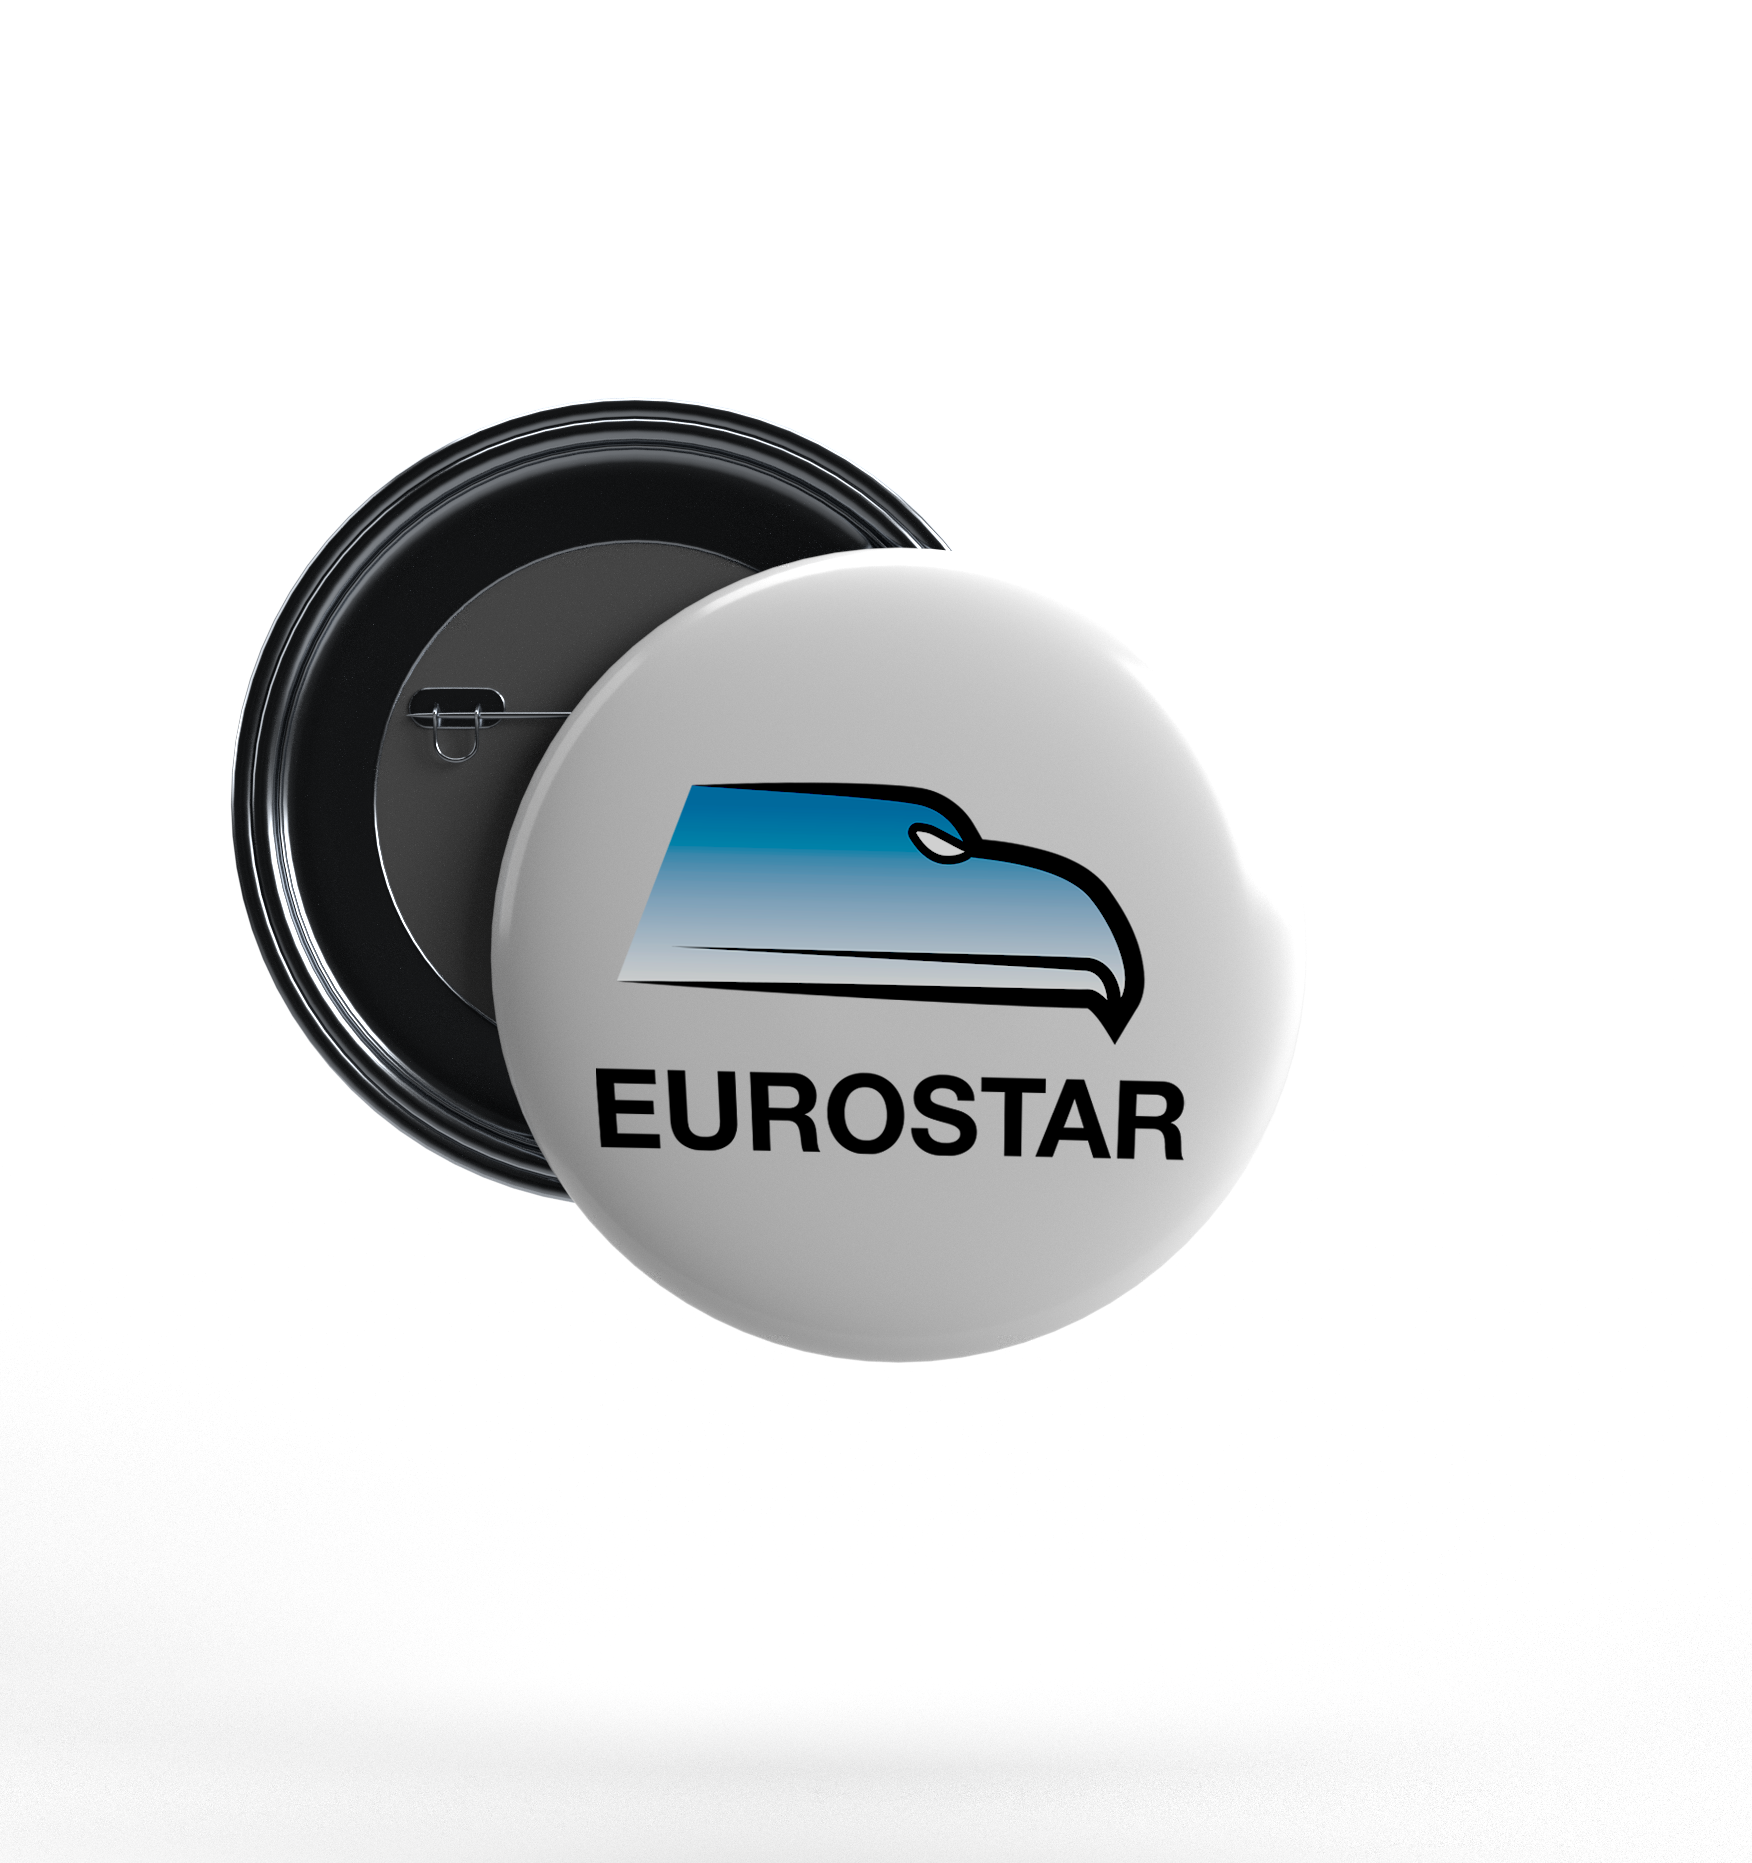
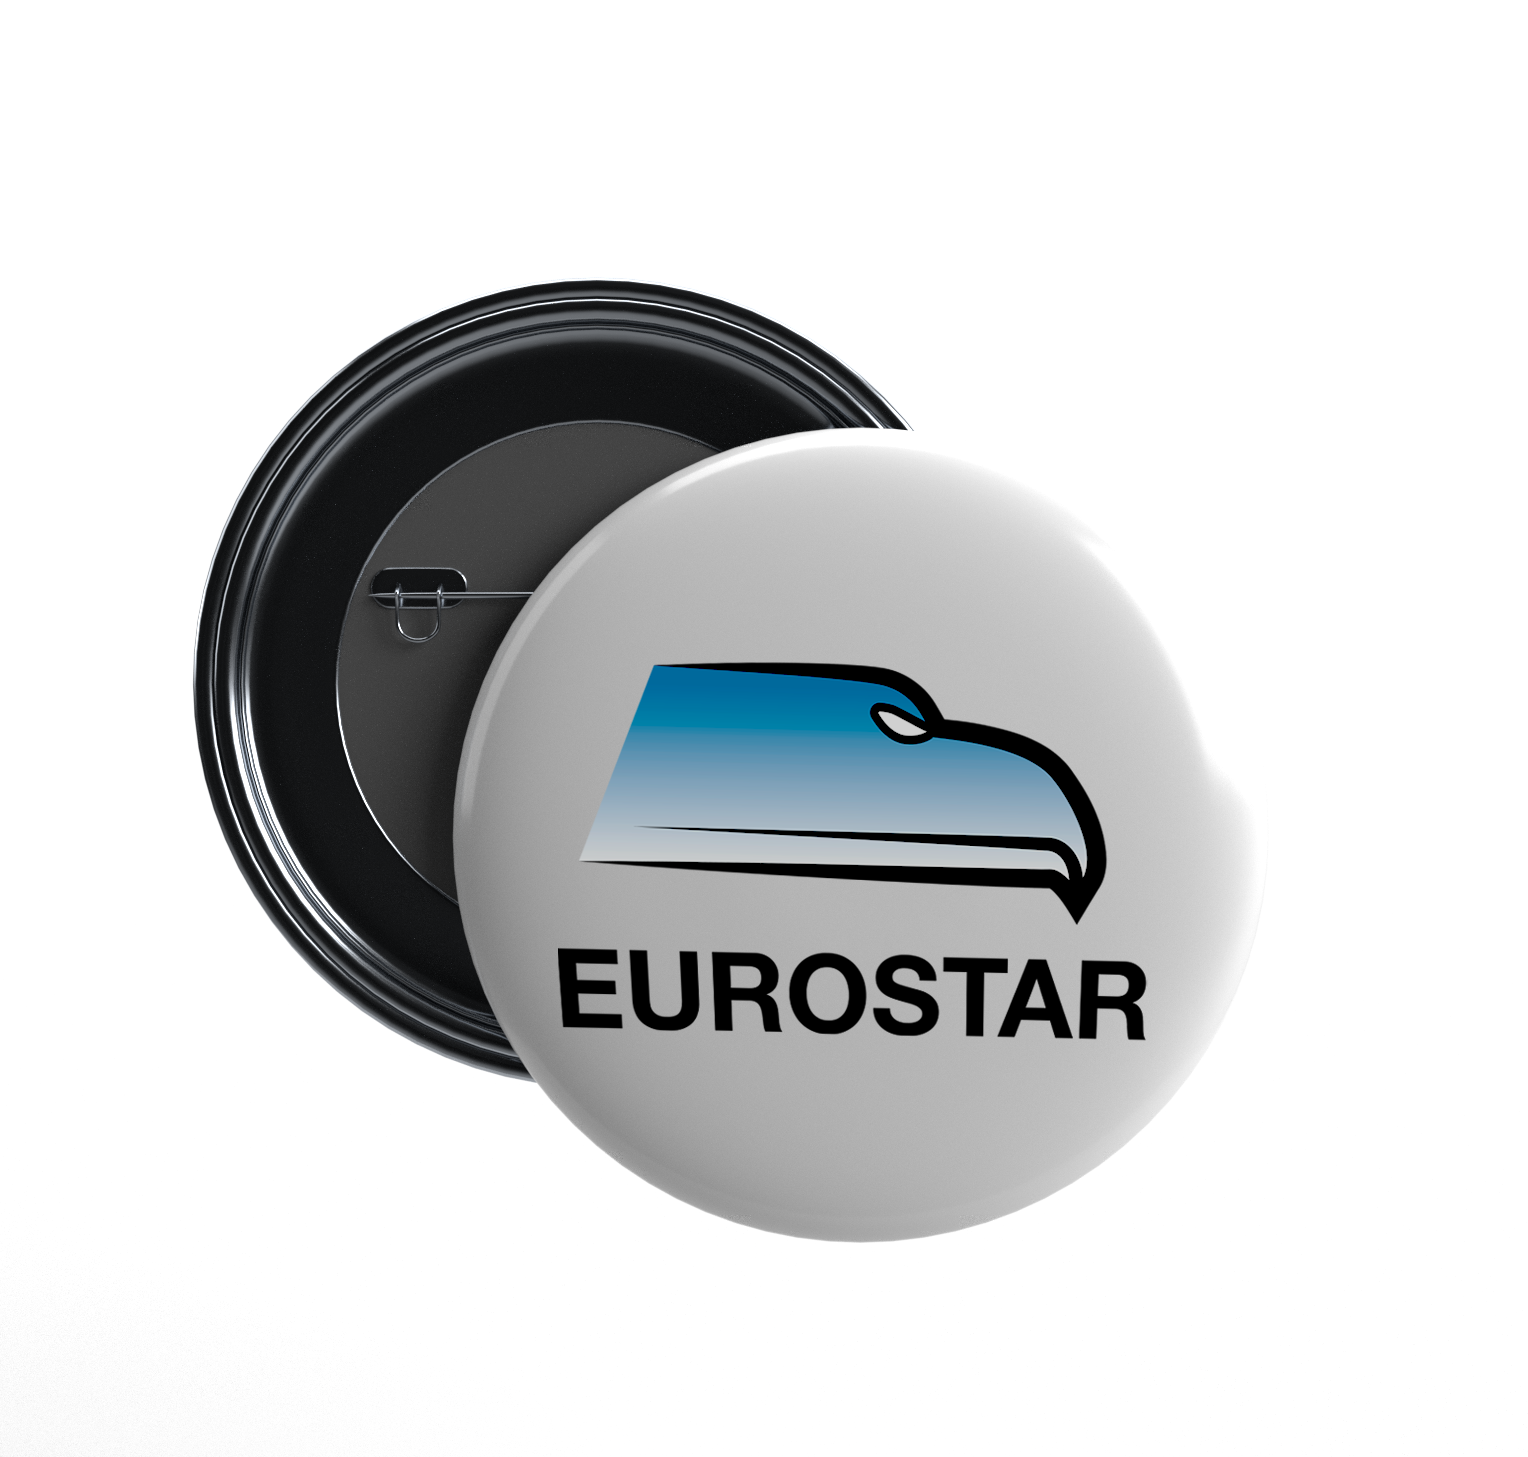
updated size

Changed region(s): [[0.123, 0.1853, 0.8305, 0.8648]]

diff --git a/eurostarpin.index.html b/eurostarpin.index.html
@@ -63,13 +63,13 @@
     <main class="site-main">
 
        <section class="hero-section">
-        <img src="" alt="" srcset="">
+        <img src="img/eurostarpincolor.png" alt="" srcset="">
      </section>
         <section>
 
-            <h1 class="uppercase">Honolulu Flag Design</h1>
+            <h1 class="uppercase">Corporate Logo Design</h1>
 
-            <h3 class="subheader purple">Redesign of the current Honolulu Flag</h3>
+            <h3 class="subheader purple">Redesigning a company's logo.</h3>
 
             <div class="row">
 

diff --git a/css/style.css b/css/style.css
@@ -84,7 +84,7 @@ header, section, footer, aside, nav, main, article, figure {
   
   /* #IMAGES */
   img {
-    max-width: 90%;
+    max-width: 95%;
     height: auto;
   }
   
